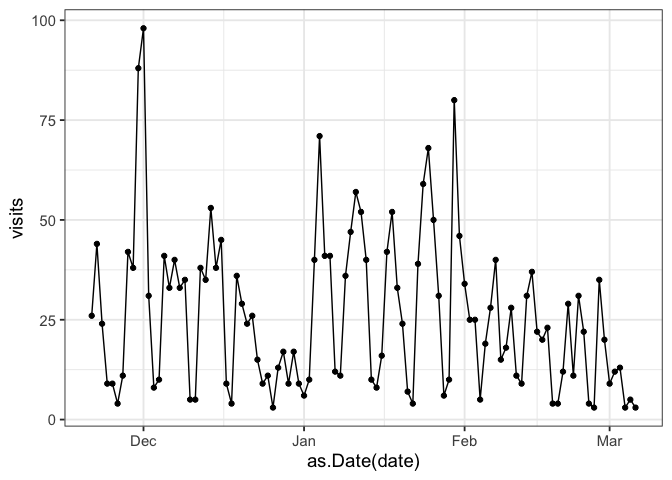
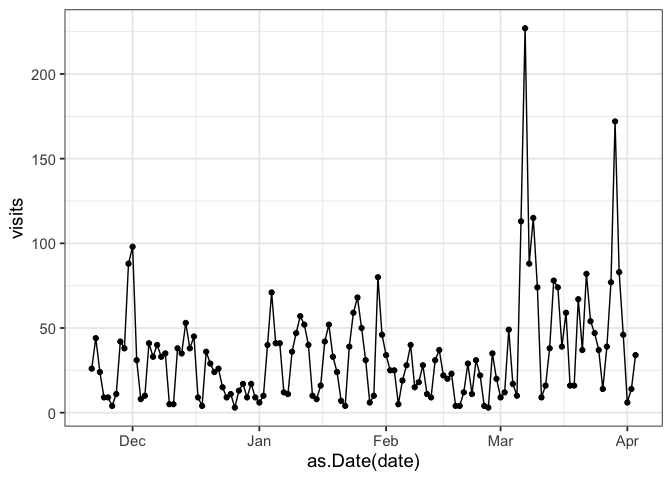
add stats through April 3

diff --git a/README.md b/README.md
@@ -23,9 +23,9 @@ This repository contains code and data on metrics for the OSF project,
 
 ## Stats
 
-This README last generated on **2023-03-06**.
+This README last generated on **2023-04-03**.
 
-Most recent data gathered on **2023-03-06**.
+Most recent data gathered on **2023-04-03**.
 
 ### Downloads
 
@@ -40,12 +40,12 @@ downloads_file %>%
 
 | file                                                            | downloads |
 |:----------------------------------------------------------------|----------:|
-| Data Management and Sharing Plan Checklist for Researchers.docx |       176 |
-| 2022-10-26_ExampleDMSP_annotated.pdf                            |       155 |
-| Policy Readiness Checklist for Librarians.docx                  |        48 |
-| Data Terms related to the NIH DMS Plan and Policy.docx          |        33 |
-| Extended Reference for DMSP Checklist.docx                      |        18 |
-| Example_DMSP_Metadata.xlsx                                      |        14 |
+| Data Management and Sharing Plan Checklist for Researchers.docx |       184 |
+| 2022-10-26_ExampleDMSP_annotated.pdf                            |       162 |
+| Policy Readiness Checklist for Librarians.docx                  |        54 |
+| Data Terms related to the NIH DMS Plan and Policy.docx          |        35 |
+| Extended Reference for DMSP Checklist.docx                      |        21 |
+| Example_DMSP_Metadata.xlsx                                      |        16 |
 | Grant Glossary for Librarians.docx                              |        14 |
 | Grant Speak in Context.docx                                     |        14 |
 | license.txt                                                     |         3 |
